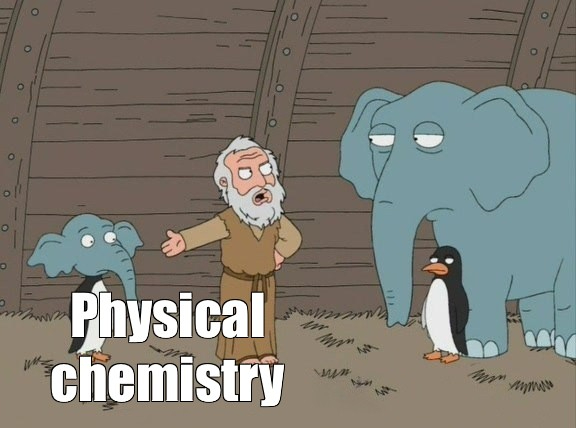
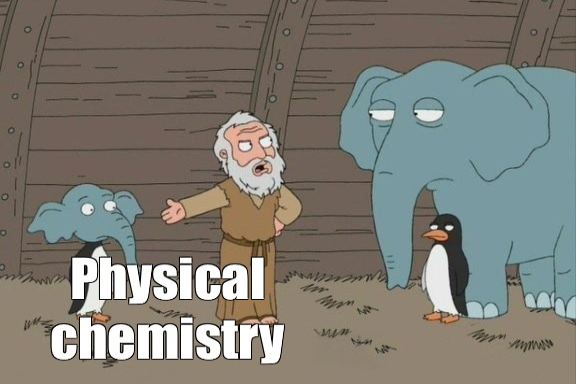
layout changes
all memes now have the same  aspect ratio, some are still placeholders. added a couple more icons for nerd stuff but still very early development. all links now open in new tabs

diff --git a/script.js b/script.js
@@ -25,32 +25,22 @@ document.addEventListener('DOMContentLoaded', () => {
     let placeholder = null;
     let originalParent = null;
 
-    const updateBackground = (pageId) => {
-        const imageUrl = backgroundImages[pageId];
+    const updateBackground = (pageId, animatedImageElement = null) => {
+        let imageUrl;
+
+        if (animatedImageElement) {
+            imageUrl = animatedImageElement.src;
+        } else {
+            imageUrl = backgroundImages[pageId];
+        }
         if (imageUrl) {
             backgroundContainer.style.backgroundImage = `url('${imageUrl}')`;
         } else {
             backgroundContainer.style.backgroundImage = 'none';
         }
     };
-
-    const resetOtherMemeImages = (currentAnimatedImage) => {
-        document.querySelectorAll('.memes').forEach(img => {
-            if (img !== currentAnimatedImage) {
-                img.style.transition = '';
-                img.style.transform = '';
-                img.style.zIndex = '';
-                img.style.position = '';
-                img.style.left = '';
-                img.style.top = '';
-                img.style.margin = '';
-                img.style.filter = '';
-                img.style.display = '';
-            }
-        });
-    };
     
-    const showPage = (pageId) => {
+    const showPage = (pageId, animatedImageElement = null) => {
         pages.forEach(page => {
             page.classList.remove('active');
         });
@@ -62,7 +52,7 @@ document.addEventListener('DOMContentLoaded', () => {
         const nextPage = document.getElementById(pageId);
         if (nextPage) {
             nextPage.classList.add('active');
-            updateBackground(pageId);
+            updateBackground(pageId, animatedImageElement);
             const activeLink = document.querySelector(`.nav-links a[data-page="${pageId}"]`);
             if (activeLink) {
                 activeLink.classList.add('active-link');
@@ -150,12 +140,38 @@ document.addEventListener('DOMContentLoaded', () => {
         }
     };
 
+    const resetOtherMemeImages = (currentAnimatedImage) => {
+        document.querySelectorAll('.memes').forEach(img => {
+            if (img !== currentAnimatedImage) {
+                img.style.transition = '';
+                img.style.transform = '';
+                img.style.zIndex = '';
+                img.style.position = '';
+                img.style.left = '';
+                img.style.top = '';
+                img.style.margin = '';
+                img.style.filter = '';
+                img.style.display = '';
+            }
+        });
+    };
+    
+    const hashChangeHandler = () => {
+        const pageId = window.location.hash.substring(1);
+        showPage(pageId);
+
+        if (pageId === 'home' && animatedImage) {
+            isReversing = true;
+            resetImageStyles(true);
+        }
+    };
+
     const initialPageId = window.location.hash.substring(1);
         if (animatablePages.includes(initialPageId)) {
         window.location.hash = 'home';
         setTimeout(() => {
             startNewTransition(initialPageId);
-        }, 100); // 100ms delay to ensure the page is ready.
+        }, 100); 
     } else {
         window.location.hash = 'home';
         showPage('home');
@@ -231,7 +247,12 @@ document.addEventListener('DOMContentLoaded', () => {
 
         setTimeout(() => {
             if (pageId) {
+                window.removeEventListener('hashchange', hashChangeHandler);
+                showPage(pageId, imgElement);
                 window.location.hash = pageId;
+                setTimeout(() => {
+                    window.addEventListener('hashchange', hashChangeHandler);
+                }, 0);
             } else if (href) {
                 window.location.href = href;
             }
@@ -254,9 +275,7 @@ document.addEventListener('DOMContentLoaded', () => {
             const pageId = event.target.closest('a').dataset.page;
             const href = event.target.closest('a').getAttribute('href');
             
-            // Check if it's an external link
             if (!href.startsWith('#')) {
-                // Let the browser handle the link naturally
                 return;
             }
 
@@ -269,7 +288,6 @@ document.addEventListener('DOMContentLoaded', () => {
                 isReversing = true;
                 
                 resetImageStyles(true, () => {
-                    
                     setTimeout(() => {
                         startNewTransition(pageId);
                     }, 100);
@@ -286,15 +304,7 @@ document.addEventListener('DOMContentLoaded', () => {
         });
     });
 
-    window.addEventListener('hashchange', () => {
-        const pageId = window.location.hash.substring(1);
-        showPage(pageId);
-
-        if (pageId === 'home' && animatedImage) {
-            isReversing = true;
-            resetImageStyles(true);
-        }
-    });
+    window.addEventListener('hashchange', hashChangeHandler);
 
     const memesImages = document.querySelectorAll('.memes');
 
@@ -305,9 +315,7 @@ document.addEventListener('DOMContentLoaded', () => {
             const pageId = link.dataset.page;
             const imgElement = imageButton;
 
-            // Check if it's an external link
             if (!href.startsWith('#')) {
-                // Let the browser handle the link naturally
                 return;
             }
 

diff --git a/index.html b/index.html
@@ -40,14 +40,13 @@
                 <h1>Welcome to ETHz Hub!</h1>
                 <p>We are currently under contruction for the new semester, so just go enjoy you're holidays, don't worry about uni, and see you in the new semester :)</p>
             </div>
-            <div>
+            <div class="memes-container">
                 <a href="#informatik" data-page="informatik"><img src="informatik.png" class="memes" alt="Informatik"></a>
                 <a href="#statistik" data-page="statistik"><img src="statistik.jpg" class="memes" alt="Statistik"></a>
                 <a href="#PC" data-page="PC"><img src="pc.jpg" class="memes" alt="PC"></a>
                 <a href="#OC" data-page="OC"><img src="oc.png" class="memes" alt="OC"></a>
                 <a href="#bio" data-page="bio"><img src="biology.jpg" class="memes" alt="bio"></a>
                 <a href="#bioanalytics" data-page="bioanalytics"><img src="bioanalytics.jpg" class="memes" alt="Bioanalytics"></a>
-                <a href="https://www.lehrbetrieb.ethz.ch/myStudies/login.view" target="_blank"><img src="mystudies.png" class="memes" alt="myStudies"></a>
                 <a href="#nerd" data-page="nerd"><img src="nerd.webp" class="memes" alt="Nerd stuff"></a>
                 <a href="#party" data-page="party"><img src="party.jpg" class="memes" alt="Party"></a>
             </div>
@@ -57,7 +56,7 @@
                 <h1>Welcome to Gründlagen der Informatik!</h1>
                 <p>We are currently under contruction for the new semester, so just go enjoy you're holidays, don't worry about uni, and see you in the new semester :)</p>
             </div>
-            <div>
+            <div class="memes-container">
                 <a href="https://moodle-app2.let.ethz.ch/enrol/index.php?id=22944" target="_blank"><img src="moodle.webp" class="memes" alt="Informatik"></a>
             </div>
         </div>
@@ -89,7 +88,7 @@
                 <h1>Welcome to Biology III!</h1>
                 <p>We are currently under contruction for the new semester, so just go enjoy you're holidays, don't worry about uni, and see you in the new semester :)</p>
             </div>
-            <div>
+            <div class="memes-container">
                 <a href="https://moodle-app2.let.ethz.ch/course/view.php?id=26121" target="_blank"><img src="moodle.webp" class="memes" alt="Informatik"></a>
             </div>
         </div>
@@ -107,12 +106,13 @@
                 <p>We are currently under contruction for the new semester, so just go enjoy you're holidays, don't worry about uni, and see you in the new semester :)</p>
                 <p>This will contain links to the printers, video portal</p>
             </div>
-            <div>
-                <a href="FS25II_V3_pages.pdf"><img src="biotikum.png" class="memes" alt="Biotikum"></a>
-                <a href="https://eth.swisscovery.slsp.ch/discovery/search?vid=41SLSP_ETH:ETH"><img src="bibliothek.png" class="memes" alt="Bibliothek"></a>
-                <a href="https://eduapp.ethz.ch/schedule/week/2025-03-10"><img src="eduapp.png" class="memes" alt="EduApp"></a>
-                <a href="https://webprint.ethz.ch/user?1#page-main"><img src="printers.png" class="memes" alt="Printers"></a>
-                <a href="https://itshop.ethz.ch/EndUser/Items/Home"><img src="printcredit.png" class="memes" alt="Printer credit"></a>                
+            <div class="memes-container">
+                <a href="https://www.lehrbetrieb.ethz.ch/myStudies/login.view" target="_blank"><img src="mystudies.png" class="memes" alt="myStudies"></a>
+                <a href="https://eduapp.ethz.ch/schedule/week/2025-03-10" target="_blank"><img src="eduapp.png" class="memes" alt="EduApp"></a>
+                <a href="FS25II_V3_pages.pdf" target="_blank"><img src="biotikum.png" class="memes" alt="Biotikum"></a>
+                <a href="https://eth.swisscovery.slsp.ch/discovery/search?vid=41SLSP_ETH:ETH" target="_blank"><img src="bibliothek.png" class="memes" alt="Bibliothek"></a>
+                <a href="https://webprint.ethz.ch/user?1#page-main" target="_blank"><img src="printer.png" class="memes" alt="Printers"></a>
+                <a href="https://itshop.ethz.ch/EndUser/Items/Home" target="_blank"><img src="printcredit.png" class="memes" alt="Printer credit"></a>                
                 
             </div>
         </div>
@@ -122,7 +122,7 @@
                 <h1>Welcome to the party!</h1>
                 <p>We are currently under contruction for the new semester, so just go enjoy you're holidays, don't worry about uni, and see you in the new semester :)</p>
             </div>
-            <div>
+            <div class="memes-container">
                 <a href="https://vebis.ch/" target="_blank"><img src="vebis.png" class="memes" alt="VeBiS" style="background-color:green"></a>
                 <a href="https://www.lochness-ethz.ch/" target="_blank"><img src="lochness.png" class="memes" alt="LochNess"></a>
             </div>

diff --git a/style.css b/style.css
@@ -138,10 +138,21 @@ body {
     display: block;
 }
 
+/* Update the parent div of the meme images */
+.memes-container {
+    display: flex;
+    flex-wrap: wrap;
+    gap: 10px;
+    justify-content: center;
+    align-items: flex-start;
+    padding-top: 20px;
+}
+
 .memes {
     height: 25vh;
     border-radius: 15px;
     transition: transform 0.4s ease-in-out, opacity 0.4s ease-in-out;
+    display: block;
 }
 
 @keyframes zoomOut {
@@ -205,7 +216,7 @@ iframe {
         flex-direction: column;
         text-align: center;
         overflow-y: auto;
-        max-height: calc(100vh - 79px);
+        max-height: calc(100vh - 120px);
     }
 
     .nav-links.active {
@@ -254,6 +265,13 @@ iframe {
     .content-container {
         padding-top: 20px;
         padding-bottom: 79px;
+    }
+
+    .memes {
+    height: 25vw;
+    border-radius: 15px;
+    transition: transform 0.4s ease-in-out, opacity 0.4s ease-in-out;
+    display: block;
     }
 
     /* Adjust iframe container for mobile */
